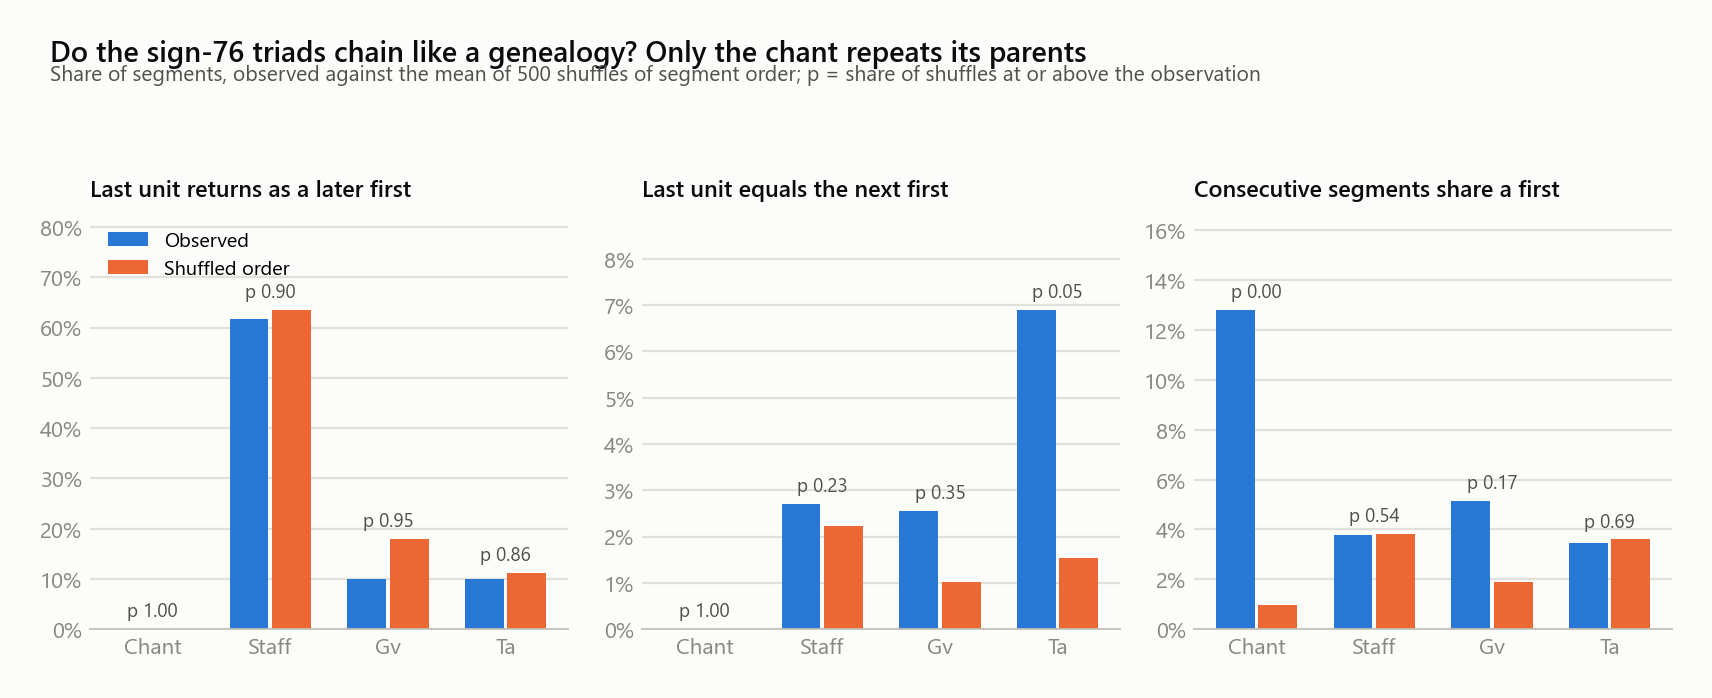
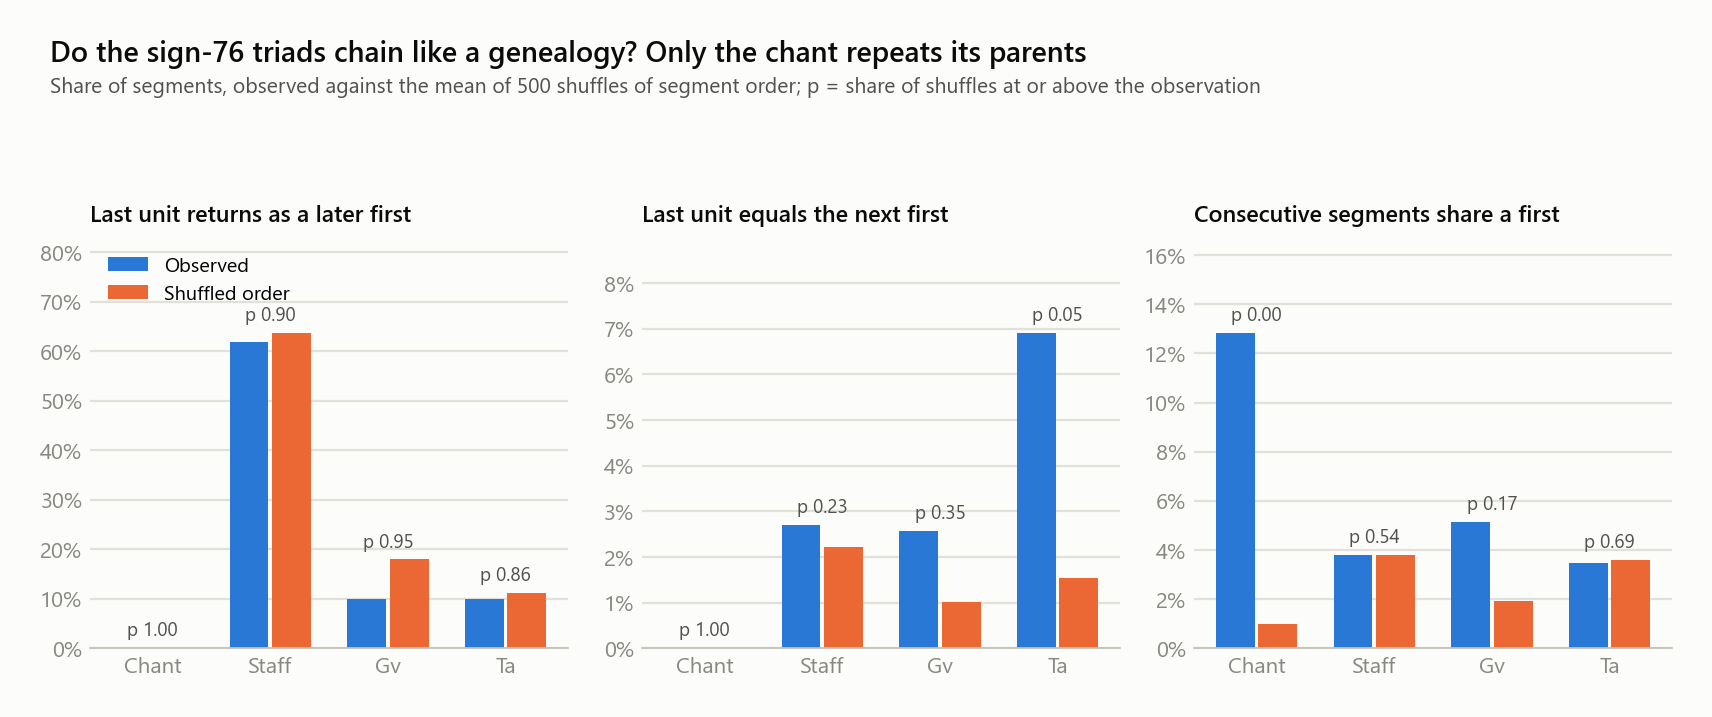
Fix title spacing on the chaining chart

diff --git a/scripts/charts.py b/scripts/charts.py
@@ -326,10 +326,10 @@ if (out / "staff_chain.csv").exists():
         ax.tick_params(length=0)
     axes[0].legend(loc="upper left", fontsize=9)
     fig.suptitle("Do the sign-76 triads chain like a genealogy? Only the chant repeats its parents", x=0.02, ha="left",
-                 fontsize=13, fontweight="semibold", color=INK, y=1.03)
-    fig.text(0.02, 0.965, "Share of segments, observed against the mean of 500 shuffles of segment order; p = share of shuffles at or above the observation",
+                 fontsize=13, fontweight="semibold", color=INK, y=1.06)
+    fig.text(0.02, 0.975, "Share of segments, observed against the mean of 500 shuffles of segment order; p = share of shuffles at or above the observation",
              color=INK2, fontsize=9.5)
-    fig.tight_layout(rect=(0, 0, 1, 0.93))
+    fig.tight_layout(rect=(0, 0, 1, 0.92))
     fig.savefig(img / "staff_chain.png", bbox_inches="tight", pad_inches=0.25)
     plt.close(fig)
 print("charts written to", img)
